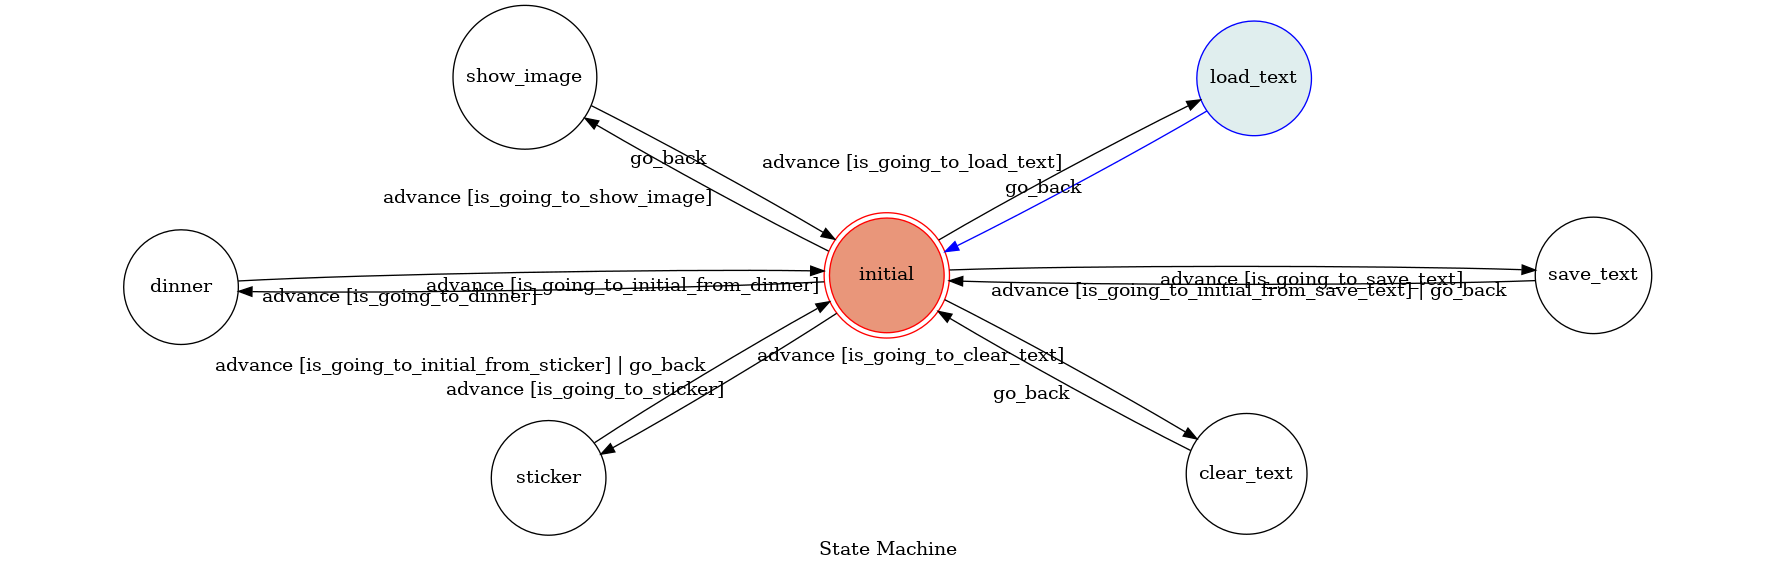
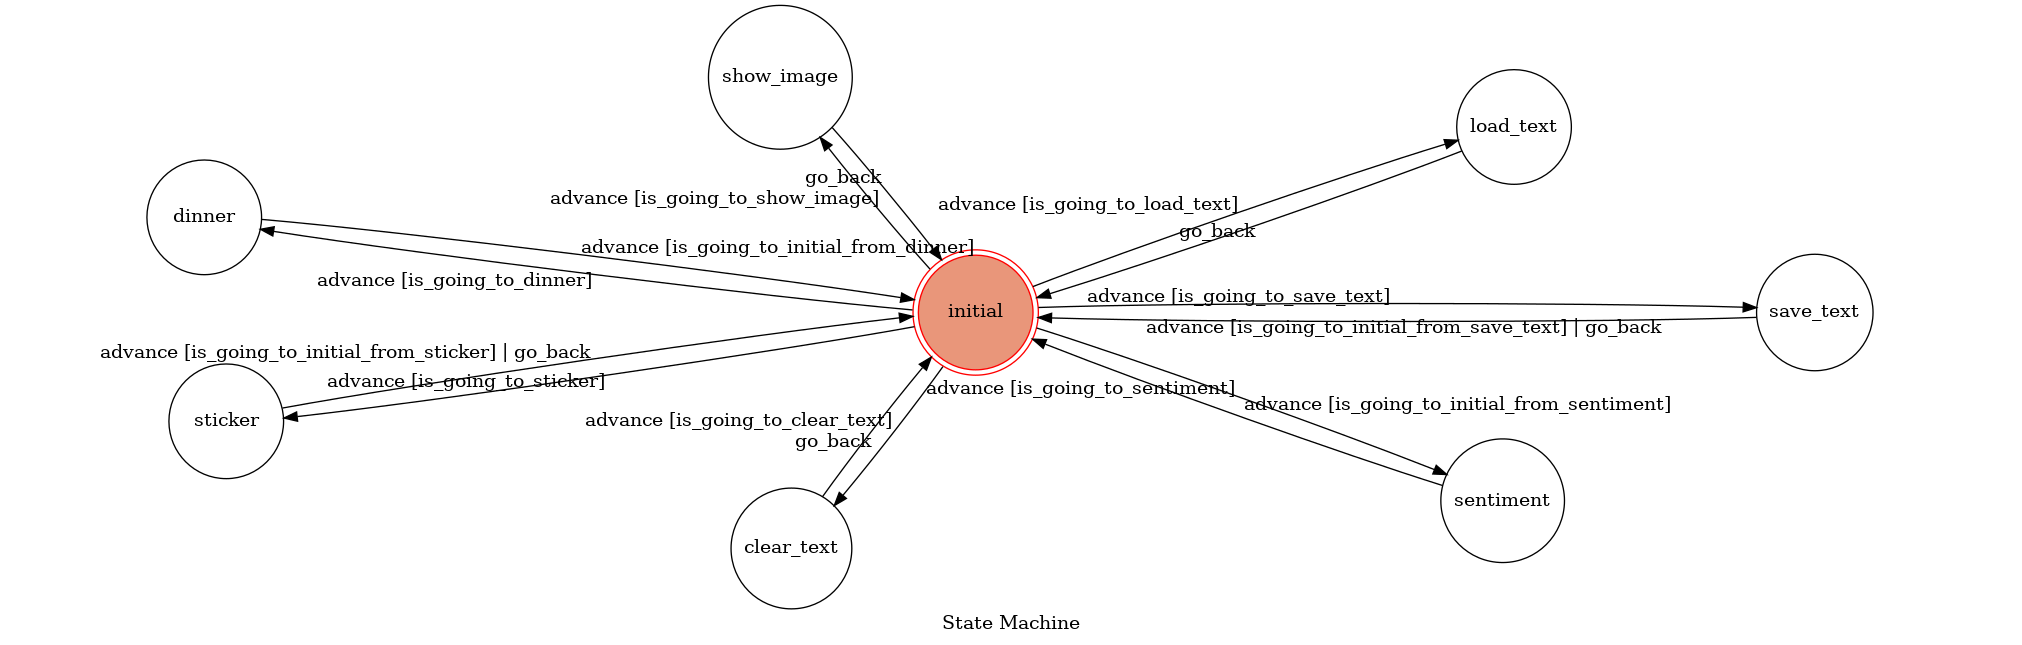
Add sentiment function

diff --git a/fsm.py b/fsm.py
@@ -4,6 +4,8 @@ from utils import send_text_message, send_sticker
 from utils import send_fsm_graph
 from flask import Flask, jsonify, request, abort, send_file
 from dotenv import load_dotenv
+from snownlp import SnowNLP
+import matplotlib.pyplot as plt
 import os
 import googlemaps
 import requests
@@ -57,10 +59,15 @@ class TocMachine(GraphMachine):
         text = event.message.text 
         return text.lower() == "6"
 
+    def is_going_to_sentiment(self, event):
+        text  = event.message.text
+        return text.lower() == "7"
+
+
     def is_going_to_initial_from_save_text(self, event):
         print("Going to initial")
         file = open("text.txt", "a")
-        file.write(event.message.text)
+        file.write(event.message.text+'\n')
         file.close()
         return True
 
@@ -85,7 +92,7 @@ class TocMachine(GraphMachine):
         input_query = input_query.split(' ')
         target_place = ""
         target_types = ""
-        target_radius = 1
+        target_radius = 100
         target_star = -1
         target_price = 0
         print(input_query)
@@ -196,6 +203,7 @@ class TocMachine(GraphMachine):
         word = file.read()
         reply_token = event.reply_token
         send_text_message(reply_token, "load text:\n"+word)
+        file.close()
         self.go_back()
 
     def on_exit_load_text(self):
@@ -238,5 +246,23 @@ class TocMachine(GraphMachine):
         reply_token = event.reply_token
         send_text_message(reply_token, "Trigger clear text")
         file = open("text.txt", "w")
+        file.close()
+        self.go_back()
+
+
+    def on_enter_sentiment(self, event):
+        send_text_message(event.reply_token, "calculate sentiment")
+        file = open("text.txt", "r")
+        text = file.read()
+        s = SnowNLP(text)
+        sentiment_list = []
+        for sentence in s.sentences:
+            s = SnowNLP(sentence)
+            print(sentence)
+            sentiment_list.append(s.sentiments)
+        
+        plt.plot(range(len(sentiment_list)), sentiment_list)
+        plt.savefig("sentiment.png")
+        plt.close()
         file.close()
         self.go_back()

diff --git a/test.py b/test.py
@@ -5,17 +5,27 @@ import json
 import os
 from dotenv import load_dotenv
 import time
+from snownlp import SnowNLP
 load_dotenv()
+
+text = "你今天過得好嗎"
+s = SnowNLP(text)
+print(s.sentiments)
 
 google_key = os.getenv("GOOGLE_KEY", None)
 gmaps = googlemaps.Client(key=google_key)
 
-x = "123"
-y = x
-y += "11"
-print(x)
-# # g = gmaps.geolocate()
-# # print(g)
+# x = gmaps.find_place(input_type="textquery",input='喝吧茶飲Drink Brapp-手作輕食-特調')
+# y = x['candidates'][0]['place_id']
+# z = gmaps.place(y)
+# for i in z['result']:
+#     print(i)
+
+# r = gmaps.places('喝吧茶飲Drink Brapp-手作輕食-特調')
+# print(r)
+
+# g = gmaps.geolocate()
+# print(g)
 
 # #kaushiang
 # # client = IpregistryClient("tryout")  
@@ -37,10 +47,10 @@ print(x)
 # # print(latitude)
 # # print(longitude)
 
-# # Geocoding an address
-# # x = gmaps.places_autocomplete('701台南市東區大學路1號')
-# # print(x)
-# geocode_result = gmaps.geocode('701台南市東區莊敬路136巷12號')
+# Geocoding an address
+# x = gmaps.places_autocomplete('701台南市東區大學路1號')
+# print(x)
+geocode_result = gmaps.geocode('喝吧茶飲Drink Brapp-手作輕食-特調')
 
 # # count = 0
 # # for i in geocode_result[0]:
@@ -48,8 +58,11 @@ print(x)
 # #     print(i)
 # #     count += 1
 
-# lat = geocode_result[0]['geometry']['location']['lat']
-# lng = geocode_result[0]['geometry']['location']['lng']
+lat = geocode_result[0]['geometry']['location']['lat']
+lng = geocode_result[0]['geometry']['location']['lng']
+# print(lat, lng)
+print(geocode_result)
+# print(geocode_result)
 # # Look up an address with reverse geocoding
 # # reverse_geocode_result = gmaps.reverse_geocode((40.714224, -73.961452))
 # # print(reverse_geocode_result)

diff --git a/app.py b/app.py
@@ -69,6 +69,9 @@ def root():
                 img_url = domain_url +"show-fsm/"
                 app.logger.info(img_url+event.reply_token)
                 send_image_url(event.reply_token, img_url)
+            elif event.message.text == "sen":
+                img_url = domain_url+"show-sen/"
+                send_image_url(event.reply_token, img_url)
             else:
                 print(f"\nFSM STATE: {machine.state}")
                 print(f"REQUEST BODY: \n{body}")
@@ -131,12 +134,15 @@ def webhook_handler():
             send_text_message(event.reply_token, "Not Entering any State")
 
     return "OK"
-
-
-@app.route("/show-fsm/<user_id>", methods=["GET", "POST"])
-def show_fsm(user_id):
+@app.route("/show-sen/<reply_token>")
+def show_sen(reply_token):
     path = os.getcwd()
-    app.logger.info(domain_url+"show-fsm/"+user_id)
+    return send_file(path+"/sentiment.png", mimetype="image/png")
+
+@app.route("/show-fsm/<reply_token>", methods=["GET", "POST"])
+def show_fsm(reply_token):
+    path = os.getcwd()
+    app.logger.info(domain_url+"show-fsm/"+reply_token)
     machine.get_graph().draw(path+"/fsm.png", prog="circo", format="png")
     # print(webhook["events"][0]["replyToken"])
     # send_fsm_graph(webhook["events"][0]["replyToken"])

diff --git a/config.py b/config.py
@@ -3,7 +3,7 @@ class set_machine():
         pass
 
     def state(self):
-        return ["initial", "save_text", "load_text", "show_image", "dinner", "sticker", "clear_text"]
+        return ["initial", "save_text", "load_text", "show_image", "dinner", "sticker", "clear_text", "sentiment"]
     
     def transition(self):
         return [
@@ -61,7 +61,13 @@ class set_machine():
             "dest": "clear_text",
             "conditions": "is_going_to_clear_text",
         },
-        {"trigger": "go_back", "source": ["save_text", "load_text", "show_image", "sticker", "clear_text"], "dest": "initial"},
+        {
+            "trigger": "advance",
+            "source": "initial",
+            "dest": "sentiment",
+            "conditions": "is_going_to_sentiment",
+        },
+        {"trigger": "go_back", "source": ["save_text", "load_text", "show_image", "sticker", "clear_text", "sentiment"], "dest": "initial"},
         ]
     
     def initial(self):

diff --git a/utils.py b/utils.py
@@ -36,6 +36,16 @@ def send_image_url(reply_token, img_url):
         print(e)
     return "OK"
 
+def send_image_url2(img_url):
+    try:
+        line_bot_api = LineBotApi(channel_access_token)
+        img_url += reply_token
+        # for demo, hard coded image url, line api only support image over https
+        line_bot_api.reply_message(reply_token, ImageSendMessage(original_content_url=img_url, preview_image_url=img_url))
+    except LineBotApiError as e:
+        print(e)
+    return "OK"
+
 
 def send_button_message(id, text, buttons):
     pass
